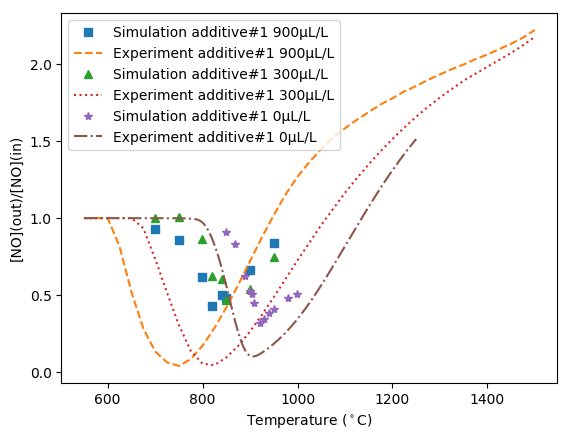
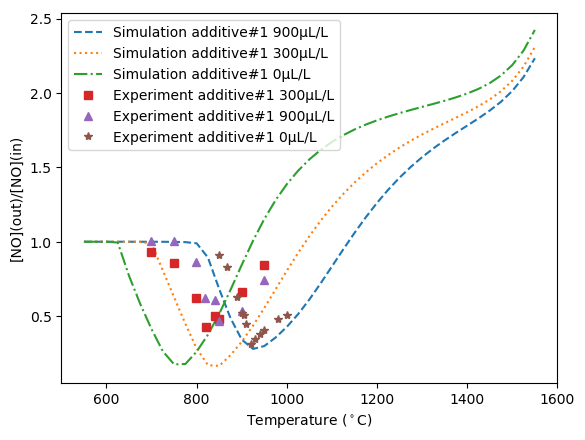
#temp

diff --git a/AddtiveAdapterExpSimult.py b/AddtiveAdapterExpSimult.py
@@ -7,18 +7,17 @@ import pandas as pd
 
 currentDir = os.path.dirname(__file__)
 tempDir = os.path.join(currentDir, 'tempDeNOx')
-#[0.27,0.64,0.03,0.001]
-for GasCompent in [[0.34,0.23,0.31,0.105],]:
+iterGasNumber=0
+for GasCompent in [[0.34,0.23,0.31,0.105],[0.27,0.64,0.03,0.001]]:
+    iterGasNumber+=1    
     NO_EndPoint_Detail_Temp=[]
     correctionCoefiencts=0.8
     concentrationList=np.array([0,300e-6,900e-6])*correctionCoefiencts
     NSR=1.5*correctionCoefiencts
-    temperatureListX=np.linspace(650+273.15,1000+273.15,5)
+    temperatureListX=np.linspace(550+273.15,1550+273.15,41)
     cNO=0.00015
     cO2=0.06
-
     cNH3=NSR*cNO
-
         
     for concentrationIter in concentrationList:          
         for temperatureIter in temperatureListX:
@@ -52,31 +51,56 @@ for GasCompent in [[0.34,0.23,0.31,0.105],]:
     df=pd.DataFrame(data={'temperature':temperatureListX})
     df1=pd.DataFrame(data={'NO_Detail':NO_EndPoint_Detail_Temp_Np})   
     dftoWrite=pd.concat([df,df1],axis=1)       
-    dftoWrite.to_csv("DataAnalyse\\YangmeiGas\\simulationData.csv")
-    C_NO_Detail=NO_EndPoint_Detail_Temp_Np.reshape(len(concentrationList),len(temperatureListX))
-    plt.figure()
-    for dataLine in C_NO_Detail:        
-        plt.plot(temperatureListX-273.15,dataLine,'-')
+    dftoWrite.to_csv("DataAnalyse\\YangmeiGas\\simulationData{0:.0f}.csv".format(iterGasNumber))
+
     
-    data={}
-    with pd.ExcelFile(r'DataAnalyse\Additive\data1ResultSynGasSNCR1.xlsx') as xls:
-        data['exp_1_900'] = pd.read_excel(xls, '合成气1,900ppm ',usecols=[0, 2])
-        data['smlt_1_900']=pd.read_excel(xls, '合成气1,900ppm ',usecols=[3, 5])
-        data['exp_1_300'] = pd.read_excel(xls, '合成气1,300ppm',usecols=[0, 2])
-        data['smlt_1_300']=pd.read_excel(xls, '合成气1,300ppm',usecols=[4, 6])
-        data['exp_1_000'] = pd.read_excel(xls, 'NSR1.5,t0.6s',usecols=[0, 2])
-        data['smlt_1_000']=pd.read_excel(xls, 'NSR1.5,t0.6s',usecols=[3, 5])
-        
-          
-        symbol=iter(['s','--','^',':','*','-.'])
-        for datatoplot in data:
-            plt.plot(data[datatoplot].iloc[:,0],data[datatoplot].iloc[:,1],next(symbol))
-        #plt.xlim((550,1100))
-        plt.xlabel('Temperature ($^\circ$C)',fontsize="medium")
-        plt.ylabel('[NO](out)/[NO](in)',fontsize="medium")
-        plt.legend(['Simulation additive#1 900μL/L','Experiment additive#1 900μL/L',
-                    'Simulation additive#1 300μL/L','Experiment additive#1 300μL/L',
-                    'Simulation additive#1 0μL/L','Experiment additive#1 0μL/L'],fontsize="medium")
-        #plt.savefig("DataAnalyse\\Fig\\syngasYang1.png",bbox_inches='tight')
-    
-    plt.show()
+
+
+
+plt.figure()
+C_NO_Detail=NO_EndPoint_Detail_Temp_Np.reshape(len(concentrationList),len(temperatureListX))
+symbol1=iter(['--',':','-.'])
+for dataLine in C_NO_Detail:        
+    plt.plot(temperatureListX-273.15,dataLine,next(symbol1))
+data={}
+with pd.ExcelFile(r'DataAnalyse\Additive\data1ResultSynGasSNCR1.xlsx') as xls:
+    data['exp_1_900'] = pd.read_excel(xls, '合成气1,900ppm ',usecols=[0, 2])
+    #data['smlt_1_900']=pd.read_excel(xls, '合成气1,900ppm ',usecols=[3, 5])
+    data['exp_1_300'] = pd.read_excel(xls, '合成气1,300ppm',usecols=[0, 2])
+    #data['smlt_1_300']=pd.read_excel(xls, '合成气1,300ppm',usecols=[4, 6])
+    data['exp_1_000'] = pd.read_excel(xls, 'NSR1.5,t0.6s',usecols=[0, 2])
+    #data['smlt_1_000']=pd.read_excel(xls, 'NSR1.5,t0.6s',usecols=[3, 5])           
+    symbol=iter(['s','^','*'])
+    for datatoplot in data:
+        plt.plot(data[datatoplot].iloc[:,0],data[datatoplot].iloc[:,1],next(symbol))
+    #plt.xlim((550,1100))
+    plt.xlabel('Temperature ($^\circ$C)',fontsize="medium")
+    plt.ylabel('[NO](out)/[NO](in)',fontsize="medium")
+    plt.legend(['Simulation additive#1 900μL/L','Simulation additive#1 300μL/L','Simulation additive#1 0μL/L',
+                'Experiment additive#1 300μL/L','Experiment additive#1 900μL/L','Experiment additive#1 0μL/L'],
+                fontsize="medium")
+    plt.savefig("DataAnalyse\\Fig\\syngasYang1.png",bbox_inches='tight')
+
+
+plt.figure()
+C_NO_Detail=NO_EndPoint_Detail_Temp_Np.reshape(len(concentrationList),len(temperatureListX))
+symbol3=iter(['--',':','-.'])
+for dataLine in C_NO_Detail:        
+    plt.plot(temperatureListX-273.15,dataLine,next(symbol3))
+data={}
+with pd.ExcelFile(r"DataAnalyse\Additive\data1ResultSynGasSNCR1.xlsx") as xls:
+    data['exp_2_900']=pd.read_excel(xls,'合成气2,900ppm',usecols=[0,2])
+    # data['smlt_2_900']=pd.read_excel(xls,'合成气2,900ppm',usecols=[3,5])
+    data['exp_2_300']=pd.read_excel(xls,'合成气2,300ppm',usecols=[0,2])
+    #data['smlt_2_300']=pd.read_excel(xls,'合成气2,300ppm',usecols=[3,5])
+    data['exp_1_000'] = pd.read_excel(xls, 'NSR1.5,t0.6s',usecols=[0, 2])
+    #data['smlt_1_000']=pd.read_excel(xls, 'NSR1.5,t0.6s',usecols=[3, 5])    
+    symbol=iter(["*",'s','^'])
+    for key in data:
+        plt.plot(data[key].iloc[:,0],data[key].iloc[:,1],next(symbol))
+    #plt.xlim((550,1100))
+    plt.xlabel('Temperature ($^\circ$C)',fontsize="medium")
+    plt.ylabel('[NO](out)/[NO](in)',fontsize="medium")
+    plt.legend(['Simulation additive#2 900μL/L','Simulation additive#2 300μL/L','Simulation additive#2 0μL/L',
+                'Experiment additive#2 900μL/L', 'Experiment additive#2 300μL/L','Experiment additive#2 0μL/L'],fontsize="medium")
+    plt.savefig("DataAnalyse\\Fig\\syngasYang2.png",bbox_inches='tight')    
